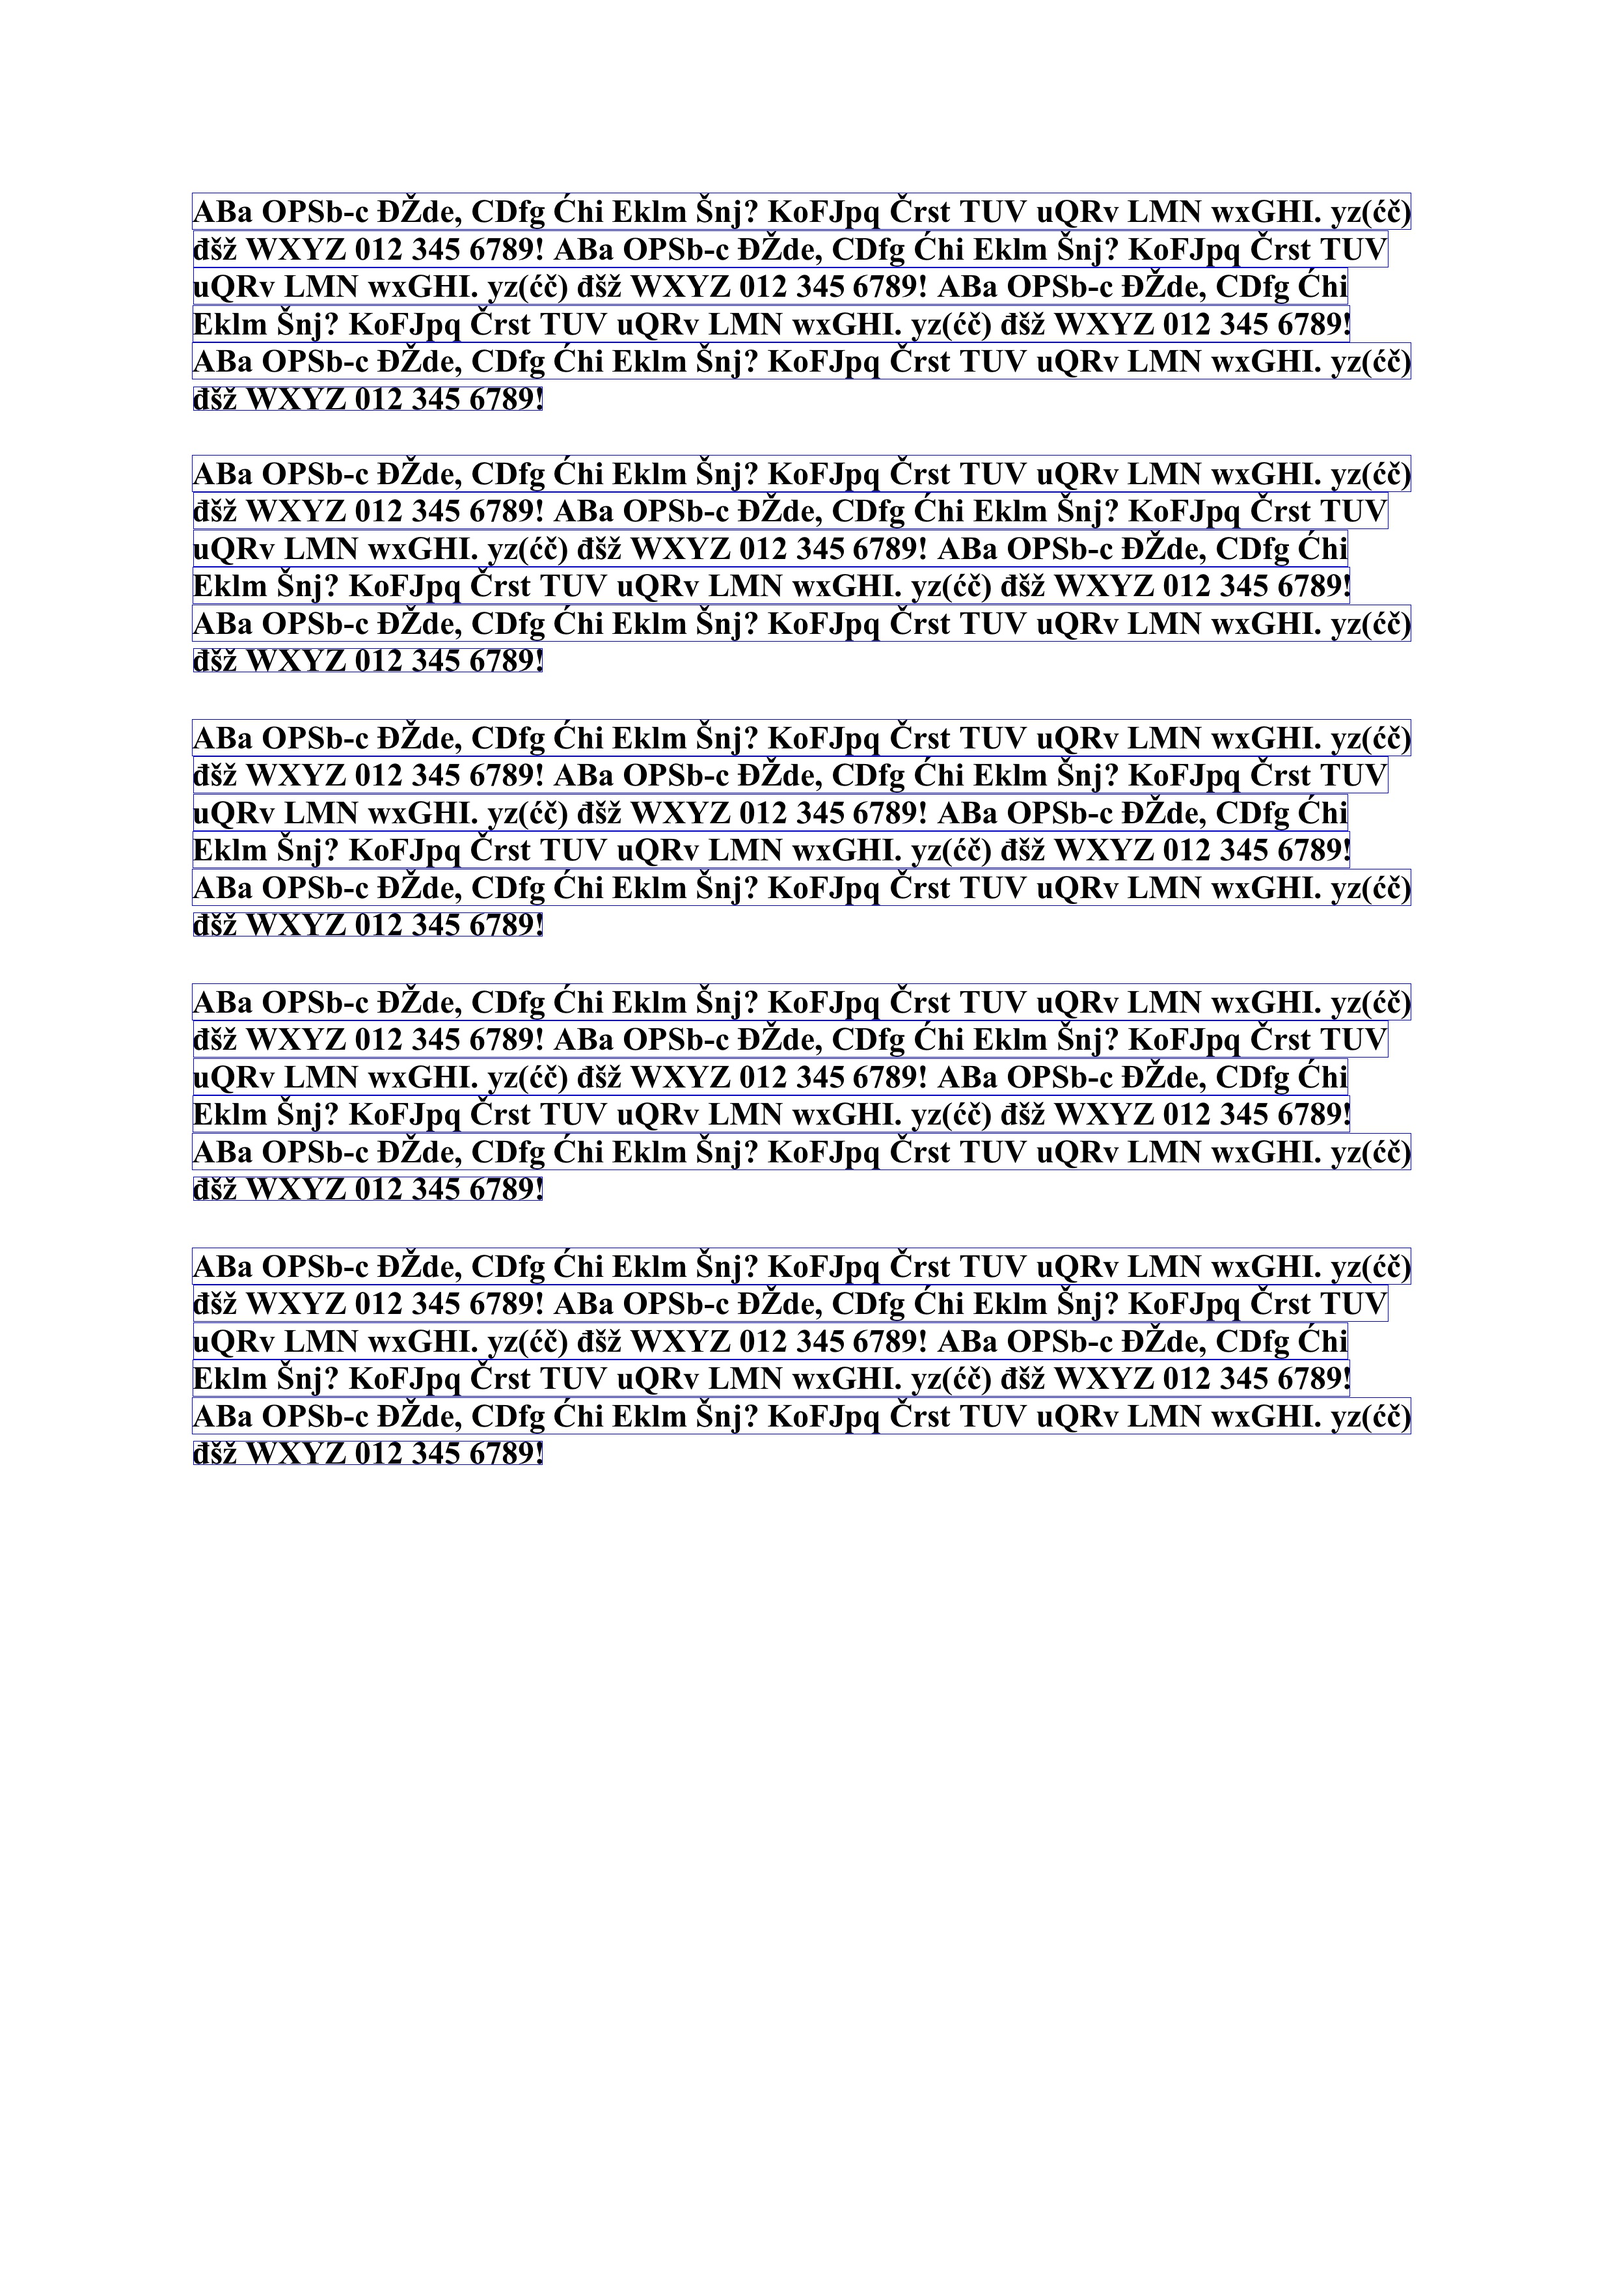
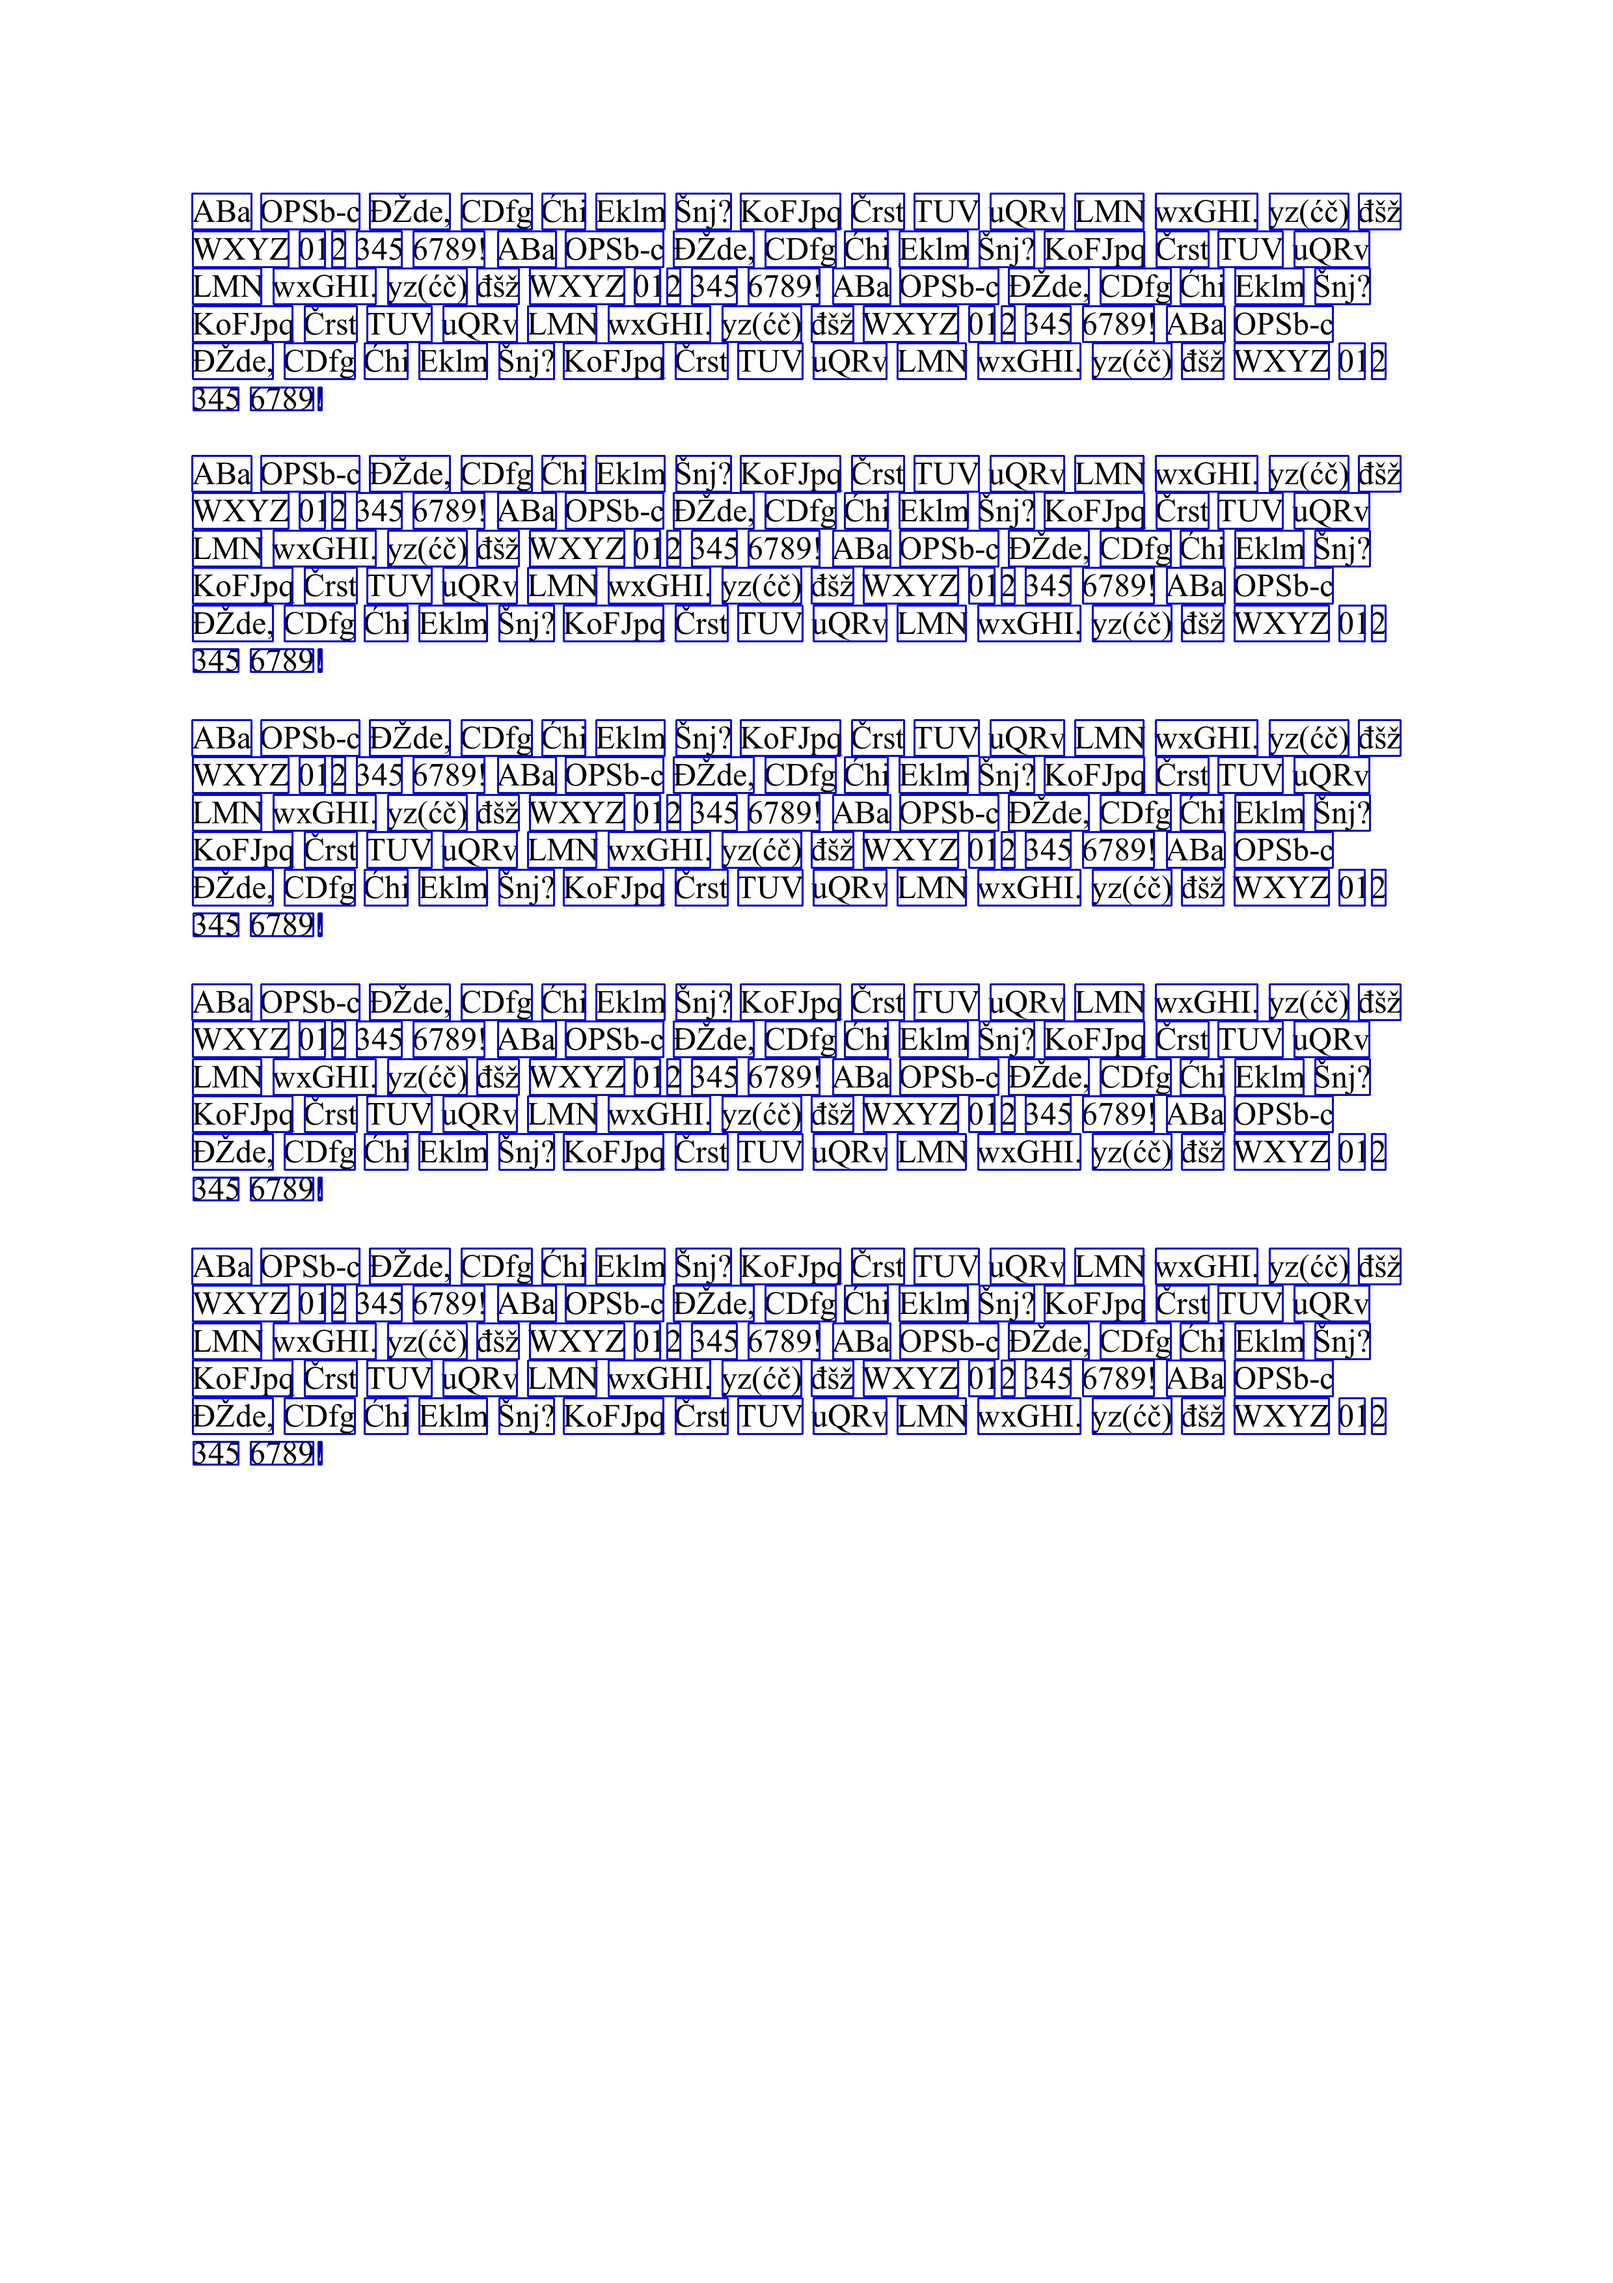
Aa

Changed region(s): [[0.0932, 0.0621, 0.8697, 0.6525]]

diff --git a/src/text_image_v3.py b/src/text_image_v3.py
@@ -79,6 +79,7 @@ class TextImageBaseline(OCRImage):
 
         # Filter new candidates
         new_candidates = self._filter_small_lines(new_candidates, 3)
+        # Include typography since mean peak histogram is cutting it of
         new_candidates = self._include_typography(new_candidates, max_index, avg_line_height)
 
         # Add new candidates
@@ -111,9 +112,6 @@ class TextImageBaseline(OCRImage):
             else:
                 new_lines.append((start_y, end_y))
 
-        print("Small", small_line_candidates)
-        print("Big", big_line_candidates)
-
         new_lines_avg_height = self._get_average_lines_height(new_lines)
 
         new_lines = self._join_small_candidates(
@@ -133,21 +131,23 @@ class TextImageBaseline(OCRImage):
         space_candidates = hist.get_histogram_spaces(h_proj, 0)
         line_candidates = hist.get_histogram_peaks(h_proj, space_candidates)
 
-        # Then filter out all candidates
-        line_candidates = self._process_line_candidates(
-            line_candidates, h_proj)
-        print(len(line_candidates))
+        # Filter really small candidates
+        line_candidates = self._filter_small_lines(line_candidates, 3)
 
-        # Idea took from https://content.sciendo.com/view/journals/amcs/27/1/article-p195.xml
-        h_proj_smooth = hist.running_mean(h_proj, 5)
-        hist_spaces = hist.get_histogram_spaces(
-            h_proj_smooth, constants.NOISE_PIXELS_THRESHOLD)
-        hist_peaks = hist.get_histogram_peaks(h_proj_smooth, hist_spaces)
+        # Then separate big candidates and join small candidates
+        old_line_candidates = line_candidates
+        new_line_candidates = self._process_line_candidates(
+            old_line_candidates, h_proj)
+            
+        # Repeat that until there is no more changes or max 3 iterations
+        iteration = 0
+        while len(new_line_candidates) != len(old_line_candidates) or iteration < 3:
+            old_line_candidates = new_line_candidates
+            new_line_candidates = self._process_line_candidates(
+                old_line_candidates, h_proj)
+            iteration += 1
 
-        lines = self._filter_hist_peaks(h_proj_smooth, hist_peaks)
-
-        # lines = self._include_typography(lines, image)
-        blobs = self._strip_lines(line_candidates, image)
+        blobs = self._strip_lines(new_line_candidates, image)
         line_images = []
         for (start_y, end_y, start_x, end_x) in blobs:
 

diff --git a/src/test.py b/src/test.py
@@ -15,12 +15,12 @@ def draw_box(image, ocr_image):
     cv2.rectangle(image, 
                     (b_box['x'] - 1, b_box['y'] - 1),
                     (b_box['x'] + b_box['width'] - 1, b_box['y'] + b_box['height'] - 1), 
-                    (255, 0, 0), 1)
+                    (255, 0, 0), 2)
 
 # input_image = load_image("../data/uvod.jpg")
 # input_image = load_image("../data/img_0861.jpg")
-# input_image = load_image("../data/calibri_12.jpg")
-input_image = load_image("../data/tnr_bold.jpg")
+input_image = load_image("../data/calibri_12.jpg")
+# input_image = load_image("../data/tnr_bold.jpg")
 
 orig_image = input_image.copy()
 binarizer = otsu.OtsuBinarization()
@@ -47,21 +47,15 @@ words_count = 0
 line_count = 0
 print("Broj linija", len(lines))
 for line in lines:
-    line.save("../lines/" + str(line_count) + ".jpg")
-#     debug_display_image(line.get_image())
-
     line_count += 1
-    # continue
     words = line.get_segments()
-    draw_box(backtorgb, line)
-    continue
     for word in words:
-        word.save("../words/" + str(words_count) + ".jpg")
+        
+        draw_box(backtorgb, word)
         chars = word.get_segments()
         words_count += 1
 
         for char in chars:
-            char.save("../chars/" + str(chars_count) + ".jpg")
             chars_count += 1
 
 print("Broj rijeci", words_count)
